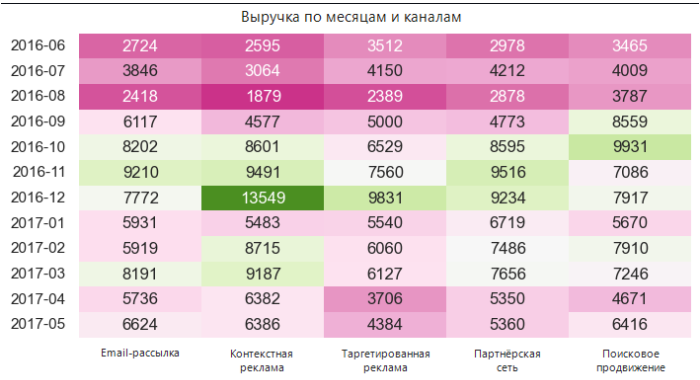
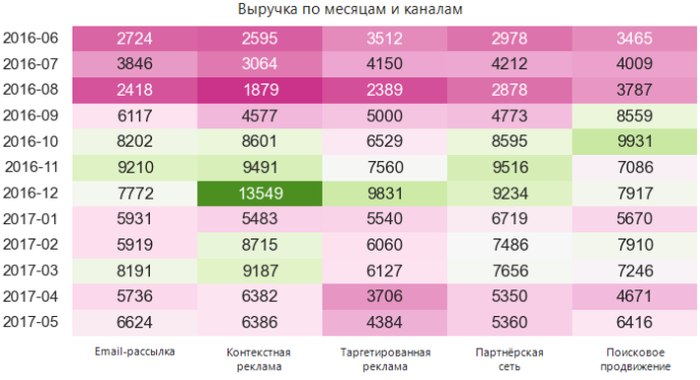
Remove black strip on LTV heatmap and align both charts to 700x380.

diff --git a/fintech_ltv/normalize_charts.py b/fintech_ltv/normalize_charts.py
@@ -1,31 +1,63 @@
-"""Pad LTV heatmap to 700x380 without redrawing titles (keep matplotlib look)."""
+"""Fix LTV heatmaps: drop black top strip, pad to 700x380, align left edges."""
 from pathlib import Path
 
+import numpy as np
 from PIL import Image
 
 ROOT = Path(__file__).resolve().parent / "images"
 TARGET = (700, 380)
 BG = (255, 255, 255)
+LEFT_PAD = 2
+TOP_PAD = 2
 
 
-def pad_to(path: Path, size=TARGET):
-    im = Image.open(path).convert("RGB")
-    if im.size == size:
-        print(path.name, "already", size)
-        return
+def drop_dark_top(im: Image.Image, thr: int = 40) -> Image.Image:
+    arr = np.asarray(im.convert("RGB"))
+    # Drop leading rows that are almost entirely very dark (artifact strip)
+    while arr.shape[0] > 1 and (arr[0].min(axis=1) < thr).mean() > 0.5:
+        arr = arr[1:]
+    return Image.fromarray(arr)
+
+
+def content_box(arr: np.ndarray, thr: int = 250):
+    mask = (arr < thr).any(axis=2)
+    ys, xs = np.where(mask)
+    return int(xs.min()), int(ys.min()), int(xs.max() + 1), int(ys.max() + 1)
+
+
+def place_on_canvas(im: Image.Image, size=TARGET) -> Image.Image:
+    """Crop to ink, scale to fit, paste with fixed left/top pads (aligned pair)."""
+    arr = np.asarray(im.convert("RGB"))
+    x0, y0, x1, y1 = content_box(arr)
+    cropped = im.convert("RGB").crop((x0, y0, x1, y1))
+    tw = size[0] - LEFT_PAD - 2
+    th = size[1] - TOP_PAD - 2
+    cw, ch = cropped.size
+    scale = min(tw / cw, th / ch)
+    nw, nh = max(1, int(round(cw * scale))), max(1, int(round(ch * scale)))
+    resized = cropped.resize((nw, nh), Image.Resampling.LANCZOS)
     canvas = Image.new("RGB", size, BG)
-    ox = (size[0] - im.size[0]) // 2
-    oy = (size[1] - im.size[1]) // 2
-    canvas.paste(im, (ox, oy))
-    canvas.save(path)
-    print(path.name, im.size, "->", size, "pad", (ox, oy))
+    # Left-align both charts so y-labels line up in the README
+    canvas.paste(resized, (LEFT_PAD, TOP_PAD))
+    return canvas
 
 
 def main():
-    pad_to(ROOT / "source_revenue_heatmap.png")
-    # cumulative already 700x380 with original title
-    im = Image.open(ROOT / "cumulative_ltv.png")
-    print("cumulative_ltv.png", im.size)
+    hm_path = ROOT / "source_revenue_heatmap.png"
+    ltv_path = ROOT / "cumulative_ltv.png"
+
+    hm = drop_dark_top(Image.open(hm_path))
+    ltv = Image.open(ltv_path)
+
+    hm2 = place_on_canvas(hm)
+    ltv2 = place_on_canvas(ltv)
+    hm2.save(hm_path)
+    ltv2.save(ltv_path)
+
+    for p in (hm_path, ltv_path):
+        im = Image.open(p)
+        a = np.asarray(im)
+        print(p.name, im.size, "top_mean", a[0].mean(axis=0).astype(int).tolist(), "left_ink", int(np.where((a < 250).any(axis=2).any(axis=0))[0].min()))
 
 
 if __name__ == "__main__":
